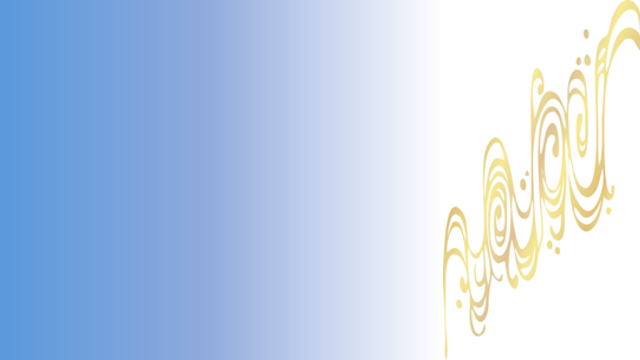
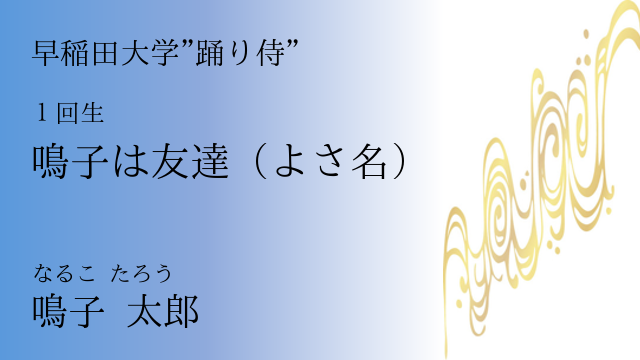
基本機能の実装完了

diff --git a/app/assets/stylesheets/custom.scss b/app/assets/stylesheets/custom.scss
@@ -177,6 +177,8 @@ header{
   border: solid 3px #67c5ff;
   color: black;
   line-height: 30px;
+  border-radius: 8px;
+  background-color: white;
   &:hover{
     background-color: #67c5ff;
     color: white;

diff --git a/app/controllers/cards_controller.rb b/app/controllers/cards_controller.rb
@@ -10,53 +10,53 @@ class CardsController < ApplicationController
     end
     
     def result
-      #ファイルの作成に関するコード
-      #画像のイメージを立ち上げ、名前の入力を完了させる
-      card = params[:card].permit(:team, :name, :kana, :nickname, :grade, :image)
+
+      #名刺の作成に関するコード
+      #初期設定
+      card = params[:card].permit(:team, :name, :kana, :nickname, :grade, :template)
       @card = Card.new(card)
-      text = @card.name
-      image = OgpCreator.build(text).tempfile.open.read
+      image_path = "./app/assets/images/card.png"
+      template = './app/assets/images/base'+@card.template+'.png'
 
-      #作成した画像を保存（指定したパスに）するためのコード
-      card_image = File.open("./app/assets/images/card.png", "w+b")
-      card_image.write(image)
-      card_image.close
-
-      #ふりがなの入力
-      text = @card.kana
-      image = OgpCreator.build_furigana(text).tempfile.open.read
-      card_image = File.open("./app/assets/images/card.png", "w+b")
-      card_image.write(image)
-      card_image.close
-
-      #よさ名の入力
-      text = @card.nickname
-      image = OgpCreator.build_nickname(text).tempfile.open.read
-      card_image = File.open("./app/assets/images/card.png", "w+b")
-      card_image.write(image)
-      card_image.close
-
-      #チーム名名の入力
+      #チーム名の入力
       text = @card.team
-      image = OgpCreator.build_team(text).tempfile.open.read
-      card_image = File.open("./app/assets/images/card.png", "w+b")
+      image = OgpCreator.build_team(text, template).tempfile.open.read
+      card_image = File.open(image_path, "w+b")
       card_image.write(image)
       card_image.close
 
       #回生の入力
       text = @card.grade
       image = OgpCreator.build_grade(text).tempfile.open.read
-      card_image = File.open("./app/assets/images/card.png", "w+b")
+      card_image = File.open(image_path, "w+b")
       card_image.write(image)
       card_image.close
 
-      @card.image = "./app/assets/images/card.png"
+      #よさ名の入力
+      text = @card.nickname
+      image = OgpCreator.build_nickname(text).tempfile.open.read
+      card_image = File.open(image_path, "w+b")
+      card_image.write(image)
+      card_image.close
+
+      #名前の入力
+      text = @card.name
+      image = OgpCreator.build_name(text).tempfile.open.read
+      card_image = File.open(image_path, "w+b")
+      card_image.write(image)
+      card_image.close
+
+      #ふりがなの入力
+      text = @card.kana
+      image = OgpCreator.build_furigana(text).tempfile.open.read
+      card_image = File.open(image_path, "w+b")
+      card_image.write(image)
+      card_image.close
+      
     end
   
-    def ogp_params
-      params.permit(:text)
-    end
 
+    #作成した名刺を表記するための関数
     def create_image
       send_file "./app/assets/images/card.png",
                      filename: '名刺.png',
@@ -64,6 +64,7 @@ class CardsController < ApplicationController
                      disposition: 'inline'
     end
 
+    #作成した名刺をダウンロードするための機能
     def download
       send_file "./app/assets/images/card.png",
                 :filename => 'よさこい名刺.png'

diff --git a/app/controllers/concerns/ogp_creator.rb b/app/controllers/concerns/ogp_creator.rb
@@ -1,7 +1,7 @@
 class OgpCreator
   require 'mini_magick'
   BASE_IMAGE_PATH = './app/assets/images/base4.png'
-  SEQUENCE_IMAGE_PATH = "./app/assets/images/card.png"
+  IMAGE_PATH = "./app/assets/images/card.png"
   FONT = './app/assets/fonts/ipam.ttf'
   COLOR = 'black'
   #1行に並ぶ最大文字数
@@ -9,12 +9,10 @@ class OgpCreator
   #最大行数
   ROW_LIMIT = 5
 
-
-
   #チーム名に関する条件
-  def self.build_team(text)
+  def self.build_team(text, template)
     text = prepare_text(text)
-    image = MiniMagick::Image.open(SEQUENCE_IMAGE_PATH)
+    image = MiniMagick::Image.open(template)
     image.combine_options do |config|        
       config.font FONT
       config.fill COLOR
@@ -28,7 +26,7 @@ class OgpCreator
   #回生に関する条件
   def self.build_grade(text)
     text = prepare_text(text)
-    image = MiniMagick::Image.open(SEQUENCE_IMAGE_PATH)
+    image = MiniMagick::Image.open(IMAGE_PATH)
     image.combine_options do |config|        
       config.font FONT
       config.fill COLOR
@@ -42,7 +40,7 @@ class OgpCreator
   #よさ名に関する条件
   def self.build_nickname(text)
     text = prepare_text(text)
-    image = MiniMagick::Image.open(SEQUENCE_IMAGE_PATH)
+    image = MiniMagick::Image.open(IMAGE_PATH)
     image.combine_options do |config|        
       config.font FONT
       config.fill COLOR
@@ -54,9 +52,9 @@ class OgpCreator
 
 
   #名前に関する条件
-  def self.build(text)
+  def self.build_name(text)
     text = prepare_text(text)
-    image = MiniMagick::Image.open(BASE_IMAGE_PATH)
+    image = MiniMagick::Image.open(IMAGE_PATH)
     image.combine_options do |config|        
       config.font FONT
       config.fill COLOR
@@ -69,7 +67,7 @@ class OgpCreator
   #振り仮名に関する条件
   def self.build_furigana(text)
     text = prepare_text(text)
-    image = MiniMagick::Image.open(SEQUENCE_IMAGE_PATH)
+    image = MiniMagick::Image.open(IMAGE_PATH)
     image.combine_options do |config|        
       config.font FONT
       config.fill COLOR

diff --git a/app/models/card.rb b/app/models/card.rb
@@ -1,5 +1,5 @@
 class Card
     include ActiveModel::Model
 
-    attr_accessor :team, :name, :kana, :nickname, :grade, :image
+    attr_accessor :team, :name, :kana, :nickname, :grade, :template
 end
